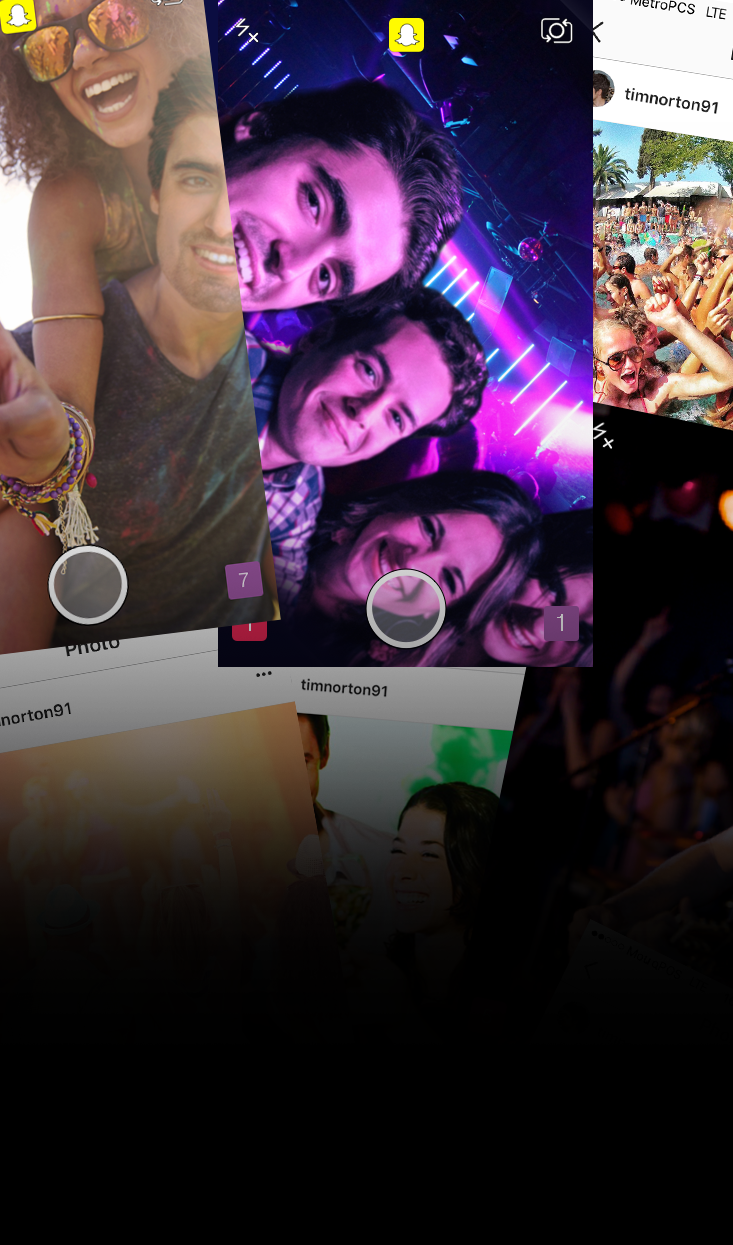
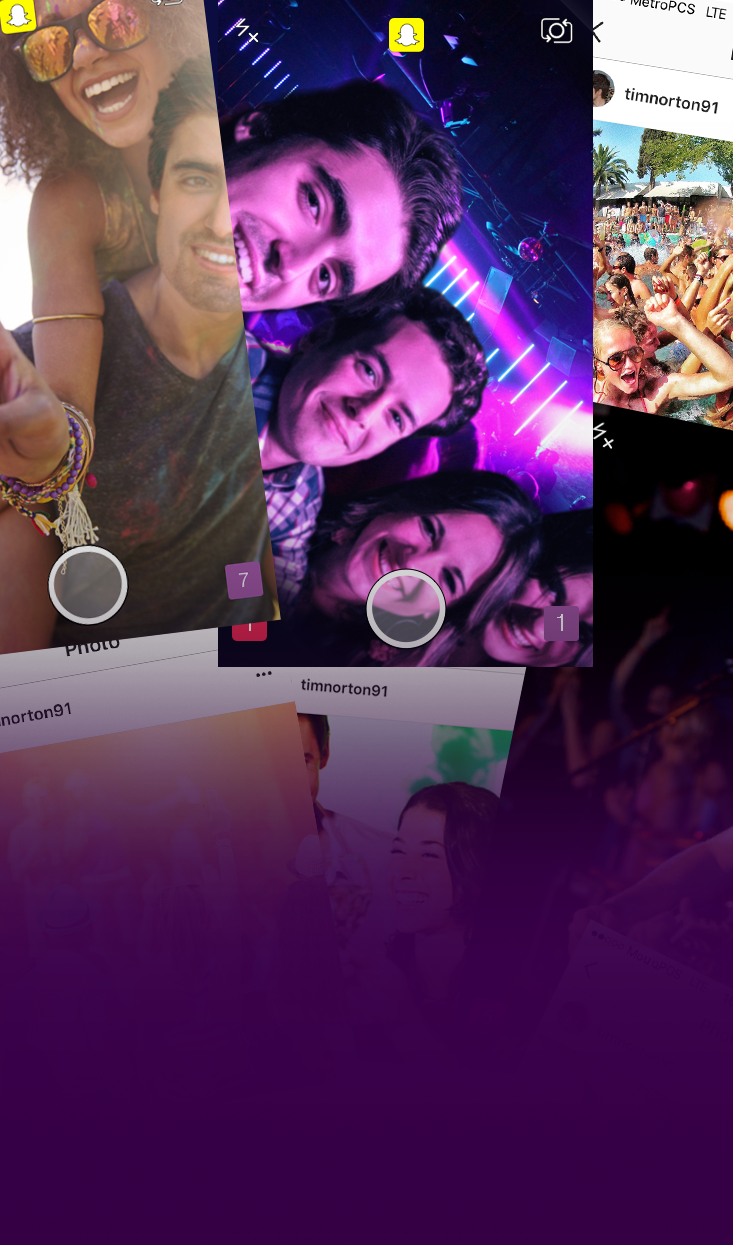
total redesign

diff --git a/css/main.css b/css/main.css
@@ -932,7 +932,7 @@ ul.countdown li p { font-size: 24px; }
     position: absolute;
     width: 100%;
     min-height: 100%;
-    background: linear-gradient(to top, rgba(124, 124, 124, 0.9), rgba(124, 124, 124, 0.01));
+    background: linear-gradient(to top, rgba(0, 0, 0, 0.9), rgba(0, 0, 0, 0.01));
     top: 0;
   }
 
